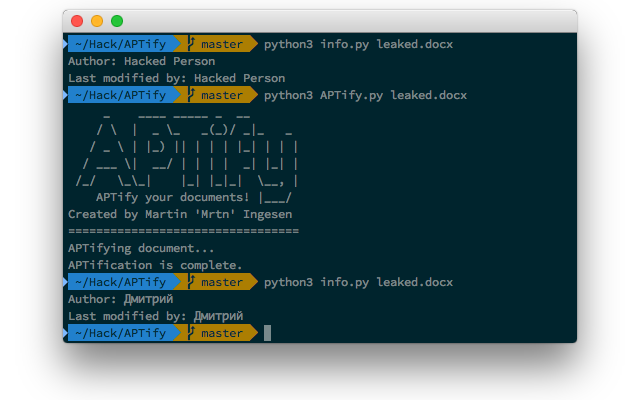
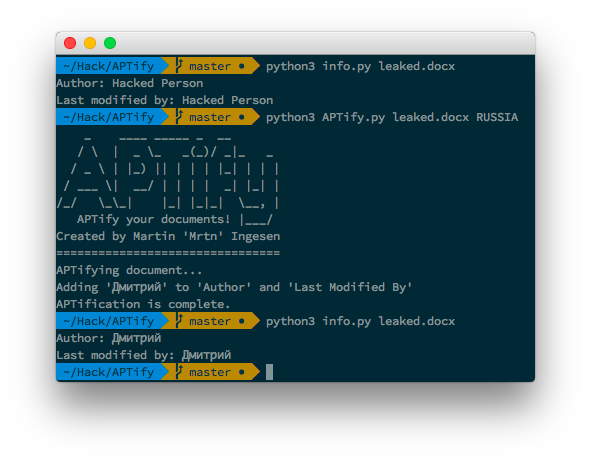
Added Guccifer, and made dmitry to a generic russian instead of an apt

diff --git a/APTify.py b/APTify.py
@@ -1,26 +1,51 @@
 from docx import Document
 import argparse
 
-parser = argparse.ArgumentParser()
+parser = argparse.ArgumentParser(
+    formatter_class=argparse.RawDescriptionHelpFormatter,
+    epilog='''
+SUPPORTED APTs
+==============
+APTs:
+\t"GUCCIFER2.0" - Adds the name 'Феликс Эдмундович' ONLY to 'Last Modified By'
+Generic:
+\t"RUSSIA", - Adds the generic name 'Дмитрий' to 'Author' and 'Last Modified By'
+''')
 
 parser.add_argument("path", help="The document you want to APTify!")
+parser.add_argument("group", help="The APT group you want to look like.")
 args = parser.parse_args()
 
-print("     _    ____ _____ _  __       ")
-print("    / \  |  _ \_   _(_)/ _|_   _ ")
-print("   / _ \ | |_) || | | | |_| | | |")
-print("  / ___ \|  __/ | | | |  _| |_| |")
-print(" /_/   \_\_|    |_| |_|_|  \__, |")
-print("    APTify your documents! |___/ ")
-print("Created by Martin 'Mrtn' Ingesen ")
-print("="*33)
+print("    _    ____ _____ _  __       ")
+print("   / \  |  _ \_   _(_)/ _|_   _ ")
+print("  / _ \ | |_) || | | | |_| | | |")
+print(" / ___ \|  __/ | | | |  _| |_| |")
+print("/_/   \_\_|    |_| |_|_|  \__, |")
+print("   APTify your documents! |___/ ")
+print("Created by Martin 'Mrtn' Ingesen")
+print("="*32)
 print("APTifying document...")
+
 try:
     document = args.path
+    group = args.group.lower()
+    changed = False
+
     doc = Document(document)
-    doc.core_properties.author = "Дмитрий"
-    doc.core_properties.last_modified_by = "Дмитрий"
-    doc.save(document)
-    print("APTification is complete.")
+    if(group == "russia"):
+        print("Adding 'Дмитрий' to 'Author' and 'Last Modified By'")
+        doc.core_properties.author = "Дмитрий"
+        doc.core_properties.last_modified_by = "Дмитрий"
+        changed = True
+    elif(group == "guccifer2.0"):
+        print("Adding 'Феликс Эдмундович' to 'Last Modified By'")
+        doc.core_properties.last_modified_by = "Феликс Эдмундович"
+        changed = True
+
+    if changed:
+        doc.save(document)
+        print("APTification is complete.")
+    else:
+        print("No edits were made.")
 except:
     print("APTification failed!")

diff --git a/README.md b/README.md
@@ -12,13 +12,15 @@ APTify is the latest and greatest in deception technology. Allowing you to shift
 ### How to APT
 
 1. `pip install -r requirements.txt`
-2. `python3 APTify.py /path/to/document.docx`
+2. `python3 APTify.py /path/to/document.docx RUSSIA`
 3. Zip up documents.
 4. Torrent/Dump them online.
 
-### APTs supported
-
-- APT28 (Fancy Bear, Russia)
+### "APTs" supported
+- Guccifer 2.0 (Russia)
+  - Adds "Феликс Эдмундович" to the Last Modified By field.
+- Generic Russian
+  - Adds "Дмитрий" to the Author and Last Modified By field.
 
 ### Thanks
 
